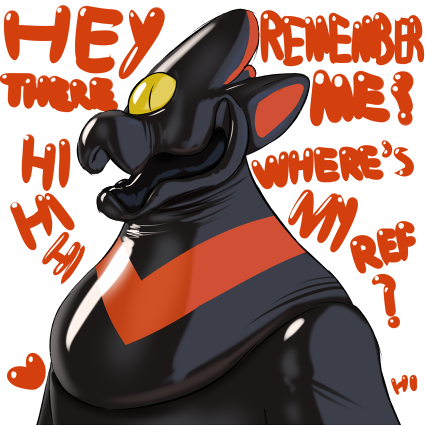
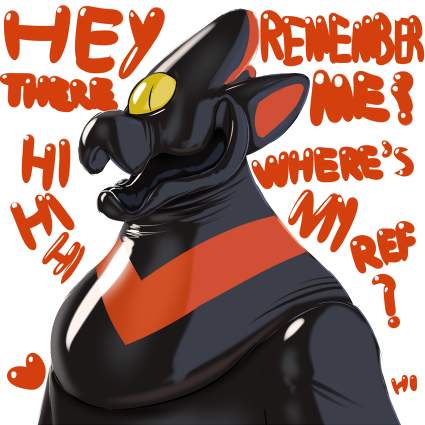
Tiny fixes and lore
-Fixed the lines on the secret vex art
-Added a bit of lore and some rewordings on the FAQ

diff --git a/src/Pages/Guarians/Tabs/Lore/Companionship.tsx b/src/Pages/Guarians/Tabs/Lore/Companionship.tsx
@@ -16,11 +16,17 @@ export const Companionship: React.FC<CompanionshipProps> = ({}) => {
         This reliance upon being in the company of someone more real is not well understood, and
         their motives for behaving this way are completely unknown, but given the nature of these
         encounters, it appears as though their intent is purely just altruistic benevolence. The
-        guarians seem to build a complex relationships, actively shaping itself in strange ways in
-        order to resonate with those that it befriends
+        guarians seem to build a complex relationships, actively shaping themselves in strange ways
+        in order to resonate with those they befriend
       </p>
-      <h3>Intelligence</h3>
-      <p>PLACEHOLDER - Write about guarian intelligence</p>
+      <h3>Understanding</h3>
+      <p>
+        Given their spiritual nature, their fantastical abilities and their completely inexplicable
+        existence, one has to wonder what goes on within the mind of a guarian. Contrary to what one
+        might think, it turns out that the answer is: probably not much. Unsurprisingly, usually
+        lacking mouths, the guarians lack the ability to communicate, but it also seems like they
+        only possess a rudimentary understanding of language in the first place.
+      </p>
       <h3>Perception</h3>
       <p>PLACEHOLDER - Write about how guarians see</p>
       <h3>Self Image</h3>

diff --git a/src/Pages/Guarians/Tabs/FAQ/FAQ.tsx b/src/Pages/Guarians/Tabs/FAQ/FAQ.tsx
@@ -28,9 +28,9 @@ const FAQ: React.FC<IProps> = ({}) => {
           <i>you</i> instead
         </p>
         <p>
-          Things get profoundly more complicated when you consider that not all guarians are alike.
-          Most of the guarians are guarians through and through, which I've usually been referring
-          to as{" "}
+          Things get profoundly more complicated when you consider that not all guarians have the
+          same origins. Most of the guarians are guarians through and through, which I've usually
+          been referring to as{" "}
           <GT
             position="bottom"
             images={[TipIcon.Reguar, TipIcon.Lavuar, TipIcon.Owluar, TipIcon.Panthuar]}
@@ -40,7 +40,7 @@ const FAQ: React.FC<IProps> = ({}) => {
           Regarding the other guarians however, you get a funny feeling that they might be{" "}
           <GT images={[TipIcon.Malvuar, TipIcon.Serguar, TipIcon.Wereguar]}>hiding something.</GT>.{" "}
           <span className="not-a-guarian">
-            Some guarians are very definitely{" "}
+            Worth mentioning however is that some guarians are very definitely{" "}
             <GT images={[notAGuarian]} position="bottom">
               not a guarian
             </GT>
